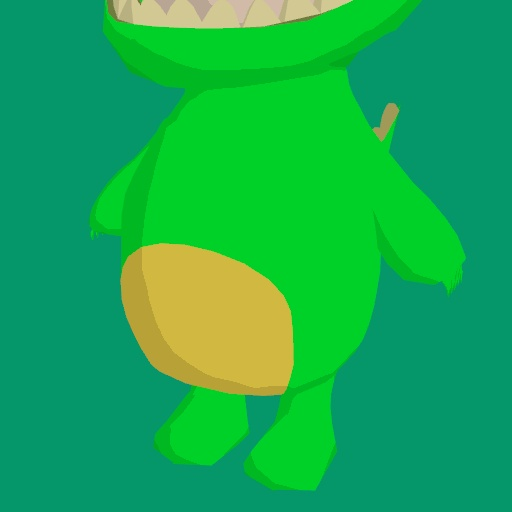
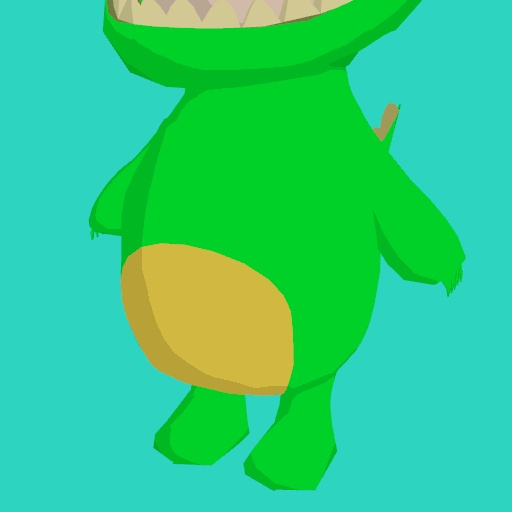
feat: 画像の色を差し替え

diff --git a/app/components/Model.tsx b/app/components/Model.tsx
@@ -177,7 +177,8 @@ export function ModelViewer({ model, costume, accessory }: Props): ReactNode {
 
 		const url = canvas.toDataURL("image/jpeg", 0.95);
 		anchor.href = url;
-		anchor.download = "model.jpg";
+		anchor.download =
+			accessory !== "none" ? `${accessory}.jpg` : `${model}_${costume}.jpg`;
 		anchor.click();
 	};
 
@@ -186,7 +187,7 @@ export function ModelViewer({ model, costume, accessory }: Props): ReactNode {
 			<div className="aspect-square h-64 w-64">
 				<Canvas
 					scene={{
-						background: new THREE.Color("#059669"),
+						background: new THREE.Color("#2dd4bf"),
 					}}
 					camera={{
 						position: [0.5, 0, 1],
